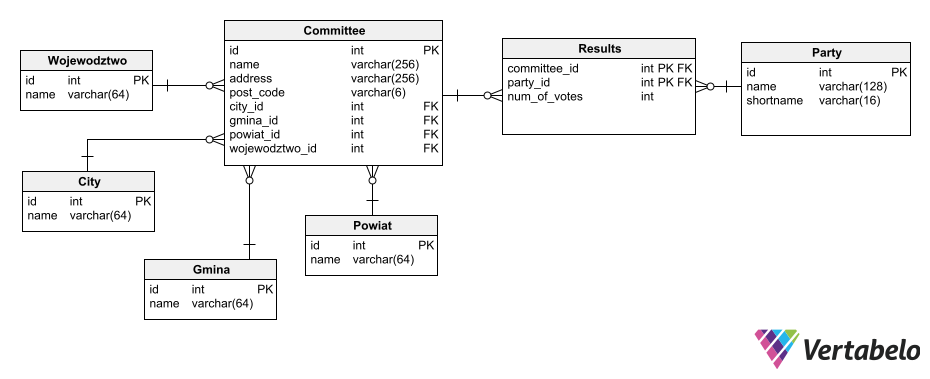
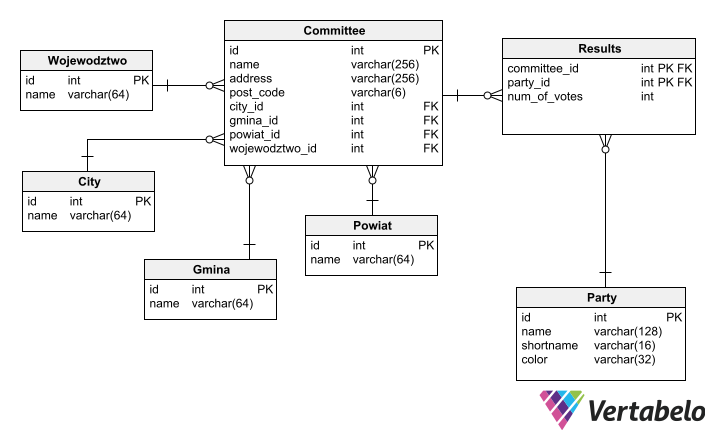
legend module, modified party table

diff --git a/app/static/js/charts.js b/app/static/js/charts.js
@@ -2,42 +2,6 @@ const wrapper = document.querySelector('.charts-div');
 const barChartCanvas = wrapper.querySelector('.bar-chart');
 const doughnutChartCanvas = wrapper.querySelector('.doughnut-chart');
 
-const committees = [
-    {party: 'BS', color: "rgb(52, 45, 86)", imageSrc: '../img/BS.png'},
-    {party: '3D', color: "rgb(84, 181, 136)", imageSrc: '../img/3D.png'},
-    {party: 'NL', color: "rgb(134, 32, 98)", imageSrc: '../img/NL.png'},
-    {party: 'PiS', color: "rgb(33, 57, 119)", imageSrc: '../img/PiS.png'},
-    {party: 'Konfederacja', color: "rgb(254, 201, 14)", imageSrc: '../img/Konfederacja.png'},
-    {party: 'KO', color: "rgb(214, 21, 65)", imageSrc: '../img/KO.png'},
-    {party: 'PJJ', color: "rgb(237, 33, 39)", imageSrc: '../img/PJJ.png'},
-    {party: 'DiP', color: "rgb(58, 53, 130)", imageSrc: '../img/DiP.png'},
-    {party: 'NK', color: "rgb(26, 152, 146)", imageSrc: '../img/NK.png'},
-    {party: 'AP', color: "rgb(188, 188, 188)", imageSrc: '../img/AP.png'},
-    {party: 'RNP', color: "rgb(170, 30, 34)", imageSrc: '../img/RNP.png'},
-    {party: 'MN', color: "rgb(255, 224, 0)", imageSrc: '../img/MN.png'},
-];
-
-function getColor(committeeName) {
-    let committee = committees.find(element => element.party === committeeName);
-
-    if (committee) {
-        return committee.color;
-    }
-
-    return 'rgb(0, 0, 0)';
-}
-
-function getColorsArray(data) {
-    let backgroundColors = [];
-
-    data.forEach(element => {
-        let color = getColor(element.party);
-        backgroundColors.push(color);
-    });
-
-    return backgroundColors;
-}
-
 export function initCharts() {
     createEmptyBarChart();
     createEmptyDoughnutChart();
@@ -46,10 +10,12 @@ export function initCharts() {
 export function setChartData(data) {
     let chartLabels = [];
     let chartData = [];
+    let chartColors = [];
 
-    data.forEach(element => {
-        chartLabels.push(element.party);
-        chartData.push(element.num_of_votes);
+    data.forEach(item => {
+        chartLabels.push(item.shortname);
+        chartData.push(item.num_of_votes);
+        chartColors.push(item.color);
     });
 
     let barChart = Chart.getChart(barChartCanvas);
@@ -70,9 +36,8 @@ export function setChartData(data) {
     barChart.options.scales.y.max = Math.ceil(maxDataVal / 10) * 10;
 
     //Set data colors
-    let backgroundColors = getColorsArray(data);
-    barChart.data.datasets[0].backgroundColor = backgroundColors;
-    doughnutChart.data.datasets[0].backgroundColor = backgroundColors;
+    barChart.data.datasets[0].backgroundColor = chartColors;
+    doughnutChart.data.datasets[0].backgroundColor = chartColors;
 
     //Enable tooltips for doughnut chart
     doughnutChart.options.plugins.tooltip.enabled = true;

diff --git a/app/static/css/styles.css b/app/static/css/styles.css
@@ -35,7 +35,7 @@ main {
     }
 }
 
-body, main, .search-div, .charts-div, .map-wrapper {
+body, main, .search-div, .charts-div, .map-wrapper, .results-div {
     box-sizing: border-box;
 }
 
@@ -134,26 +134,38 @@ input:focus {
     font-weight: bold;
 }
 
-.charts-div {
-    width: 100%; 
+.results-div {
     height: 100%;
+    width: 100%;
+
     outline: 1px solid purple;
 
     display: flex;
-    flex-direction: column;
-    justify-content: space-evenly;
-    align-items: center;
+
     gap: 20px;
 
     margin-top: 4px;
 }
-
-/*czy wrapper potrzebny wogle?*/
-.chart-wrapper {
-    margin: 20px;
+/*!!!*/
+.legend-div, .charts-div {
+    flex: 1;
 }
 
-.bar-chart, .doughnut-chart {
+.legend-div {
+    display: flex;
+    
+    flex-direction: column;
+    justify-content: center;
+    align-items: center;
+}
+
+.legend-item p {
+    display: inline-block;
+    text-align: center;
+}
+
+
+.charts-div div {
     width: 300px;
     height: 300px;
 }
@@ -164,7 +176,7 @@ input:focus {
 
     outline: 1px solid rgb(128, 49, 0);
     
-    padding: 10px;
+    padding: 6px;
     margin-top: 4px;
 
     z-index: -1;
@@ -172,4 +184,9 @@ input:focus {
 
 #map {
     height: 100%;
+}
+
+.party-img {
+    width: 50px;
+    height: 50px;
 }

diff --git a/app/templates/index.html b/app/templates/index.html
@@ -40,18 +40,19 @@
             <div id="map"></div>
         </div>
 
-        <div class="charts-div">
-            <div class="chart-wrapper">
-                <canvas class="bar-chart"></canvas>
-            </div>
-            <div class="chart-wrapper">
-                <canvas class="doughnut-chart"></canvas>
+        <div class="results-div">
+            <div class="legend-div"></div>
+            <div class="charts-div">
+                <div><canvas class="bar-chart"></canvas></div>
+                <div><canvas class="doughnut-chart"></canvas></div>
             </div>
         </div>
+        
     </main>
     <footer></footer>
     <script src="https://cdn.jsdelivr.net/npm/chart.js"></script>
     <script type="module" src="../static/js/script.js"></script>
+    <script type="module" src="../static/js/legend.js"></script>
     <script type="module" src="../static/js/charts.js"></script>
     <script type="module" src="../static/js/map.js"></script>
 </body>

diff --git a/app/static/js/legend.js b/app/static/js/legend.js
@@ -1,0 +1,31 @@
+const legendContainer = document.querySelector('.legend-div');
+
+function makeLegendItem(item) {
+    const legendItem = document.createElement('div');
+    legendItem.classList.add('legend-item');
+
+    const img = document.createElement('img');
+    img.setAttribute('src', item.party_img_uri);
+    img.classList.add('party-img')
+
+    const partyName = document.createElement('p');
+    partyName.textContent = item.party;
+
+    // const percentageBar = makePercentageBar(item.num_of_votes, sumOfVotes)
+    // const partyColor = item.color;
+
+    //item.votes_percentage
+    
+    legendItem.append(img, partyName);
+
+    return legendItem;
+}
+
+export function fillLegend(data) {
+    legendContainer.innerHTML = '';
+
+    data.forEach(item => {
+        let legendItem = makeLegendItem(item)
+        legendContainer.append(legendItem)
+    });
+}

diff --git a/app/static/js/script.js b/app/static/js/script.js
@@ -1,5 +1,6 @@
 import { initCharts, setChartData } from './charts.js';
 import { initMap, updateMap } from './map.js';
+import { fillLegend } from './legend.js';
 
 const searchbar = document.querySelector('.searchbar');
 const categoryDropdown = document.querySelector('#category-dropdown');
@@ -157,6 +158,7 @@ async function getResults(id, category) {
     const response = await fetch(`/results?id=${id}&category=${category}`);
     const data = await response.json();
 
+    fillLegend(data);
     setChartData(data);
 }
 

diff --git a/app/static/js/map.js b/app/static/js/map.js
@@ -32,8 +32,7 @@ function getZoom(category) {
     } else if (category == '4') {
         return 10;
     } else if (category == '5')
-        return 8;
-
+        return 7;
     return 11;
 }
 

diff --git a/app/db_util.py b/app/db_util.py
@@ -1,5 +1,5 @@
-import mysql.connector
 import json
+import mysql.connector
 from db_config import DB_CONFIG
 
 connection_pool = mysql.connector.pooling.MySQLConnectionPool(
@@ -8,21 +8,7 @@ connection_pool = mysql.connector.pooling.MySQLConnectionPool(
     **DB_CONFIG  
 )
 
-def map_category(category):
-    if category == '1':
-        return 'committee'
-    elif category == '2':
-        return 'city'
-    elif category == '3':
-        return 'gmina'
-    elif category == '4':
-        return 'powiat'
-    elif category == '5':
-        return 'wojewodztwo'
-    else:
-        raise ValueError(f'Invalid category: {category}')
-
-#Returns select query based on selected table name.
+# Returns select query based on selected table name.
 def get_select_query(keyword, table_name):
     if table_name == 'committee':
         return '''
@@ -69,6 +55,7 @@ def get_matching_records(keyword, category):
         raise ve
     return json.dumps(result, ensure_ascii=False)
 
+# Returns list with voting results for queried args
 def get_voting_results(id, category):
     results = []
 
@@ -83,21 +70,48 @@ def get_voting_results(id, category):
                     column_name += '_id'
 
                 query = '''
-                    SELECT party.shortname, SUM(num_of_votes) 
+                    SELECT party.name, party.shortname, party.color, SUM(num_of_votes) AS votes
                     FROM party 
                     INNER JOIN results ON results.party_id = party.id
                     INNER JOIN committee ON committee.id = results.committee_id
                     WHERE {} = {}
-                    GROUP BY party.shortname
-                    ORDER BY SUM(num_of_votes) DESC;
+                    GROUP BY party.shortname, party.name, party.color
+                    ORDER BY votes DESC;
                 '''.format(column_name, id)
 
                 cursor.execute(query)
-                
-                result = [{'party': party, 'num_of_votes': int(num_of_votes)} for party, num_of_votes in cursor.fetchall() if num_of_votes != 0]
+            
+                # Parsing the query result, casting num of votes to int, removing records where num_of_votes == 0.
+                result = [{'name': name, 'shortname': shortname, 'color': color, 'num_of_votes': int(num_of_votes)}
+                    for name, shortname, color, num_of_votes in cursor.fetchall() if num_of_votes != 0
+                ]
+
+                total_votes = sum(item['num_of_votes'] for item in result)
+
+                # Extending the result list by assigning 'party_img_uri' and 'votes_percentage' to each item.
+                result = [{
+                    **item, 
+                    'votes_percentage': round((item['num_of_votes'] / total_votes) * 100.00, 2),
+                    'party_img_uri': 'static/img/' + item['shortname'] + '.png' 
+                } for item in result]
 
     except mysql.connector.Error as ce:
         print(f'Database Error: {ce}')
         raise ce
 
     return json.dumps(result, ensure_ascii=False)
+
+# Czy cos z tym mozna zrobic?
+def map_category(category):
+    if category == '1':
+        return 'committee'
+    elif category == '2':
+        return 'city'
+    elif category == '3':
+        return 'gmina'
+    elif category == '4':
+        return 'powiat'
+    elif category == '5':
+        return 'wojewodztwo'
+    else:
+        raise ValueError(f'Invalid category: {category}')

diff --git a/data/data_insertion.py b/data/data_insertion.py
@@ -1,6 +1,6 @@
 import pymysql
 import traceback
-from app.db_config import DB_CONFIG
+from db_config import DB_CONFIG
 from data_parser import placowka_table_df, placowka_wyniki_df, komitet_table_df, okrag_table_df
 
 connection = pymysql.connect(
